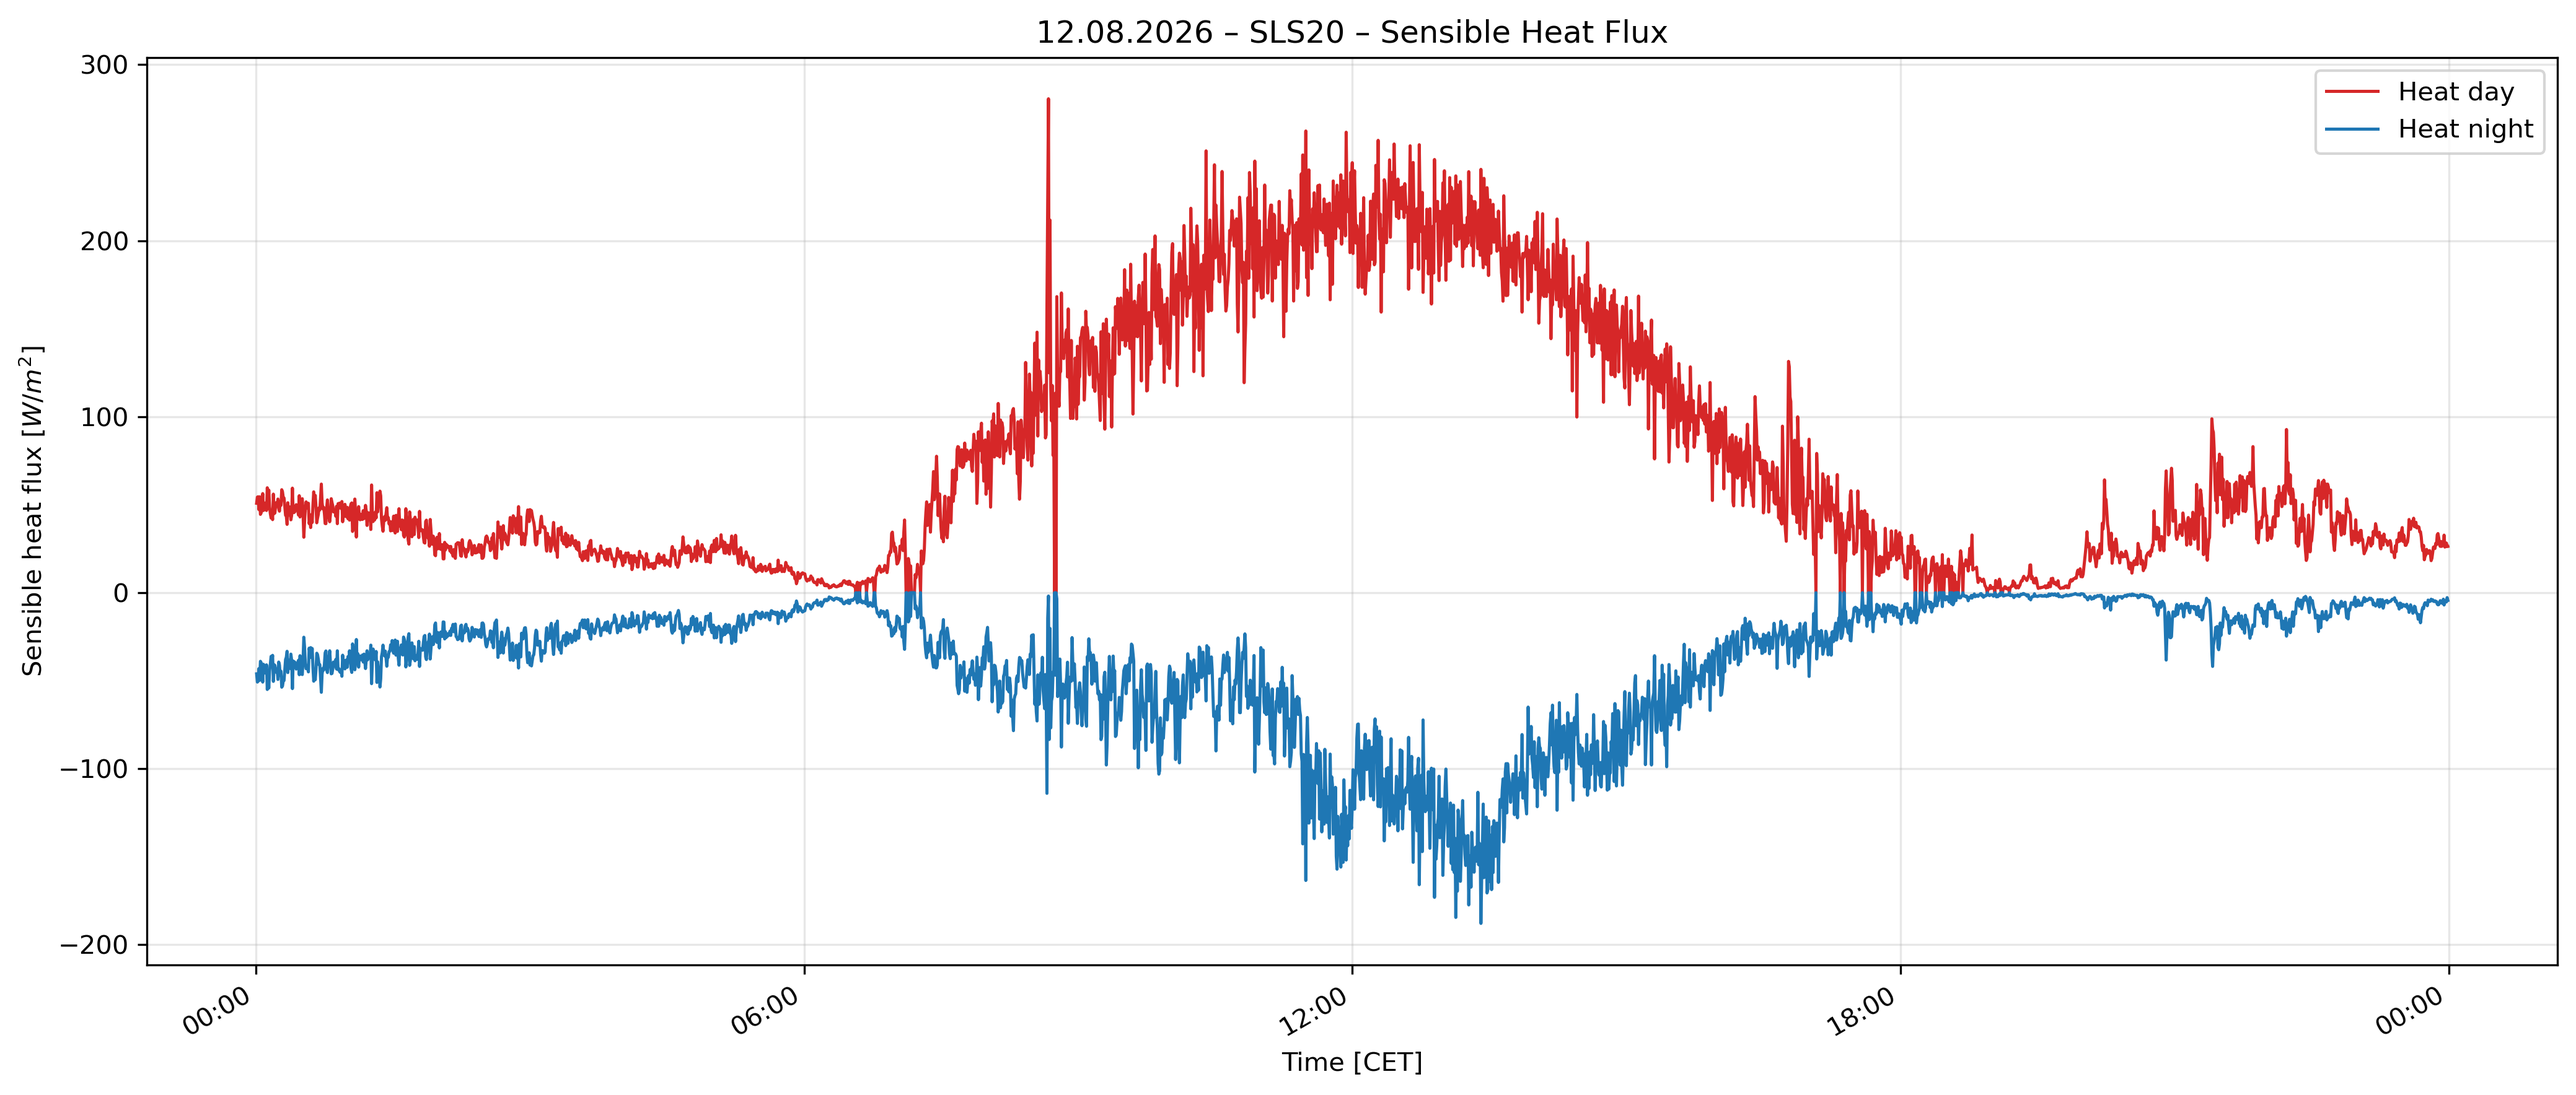
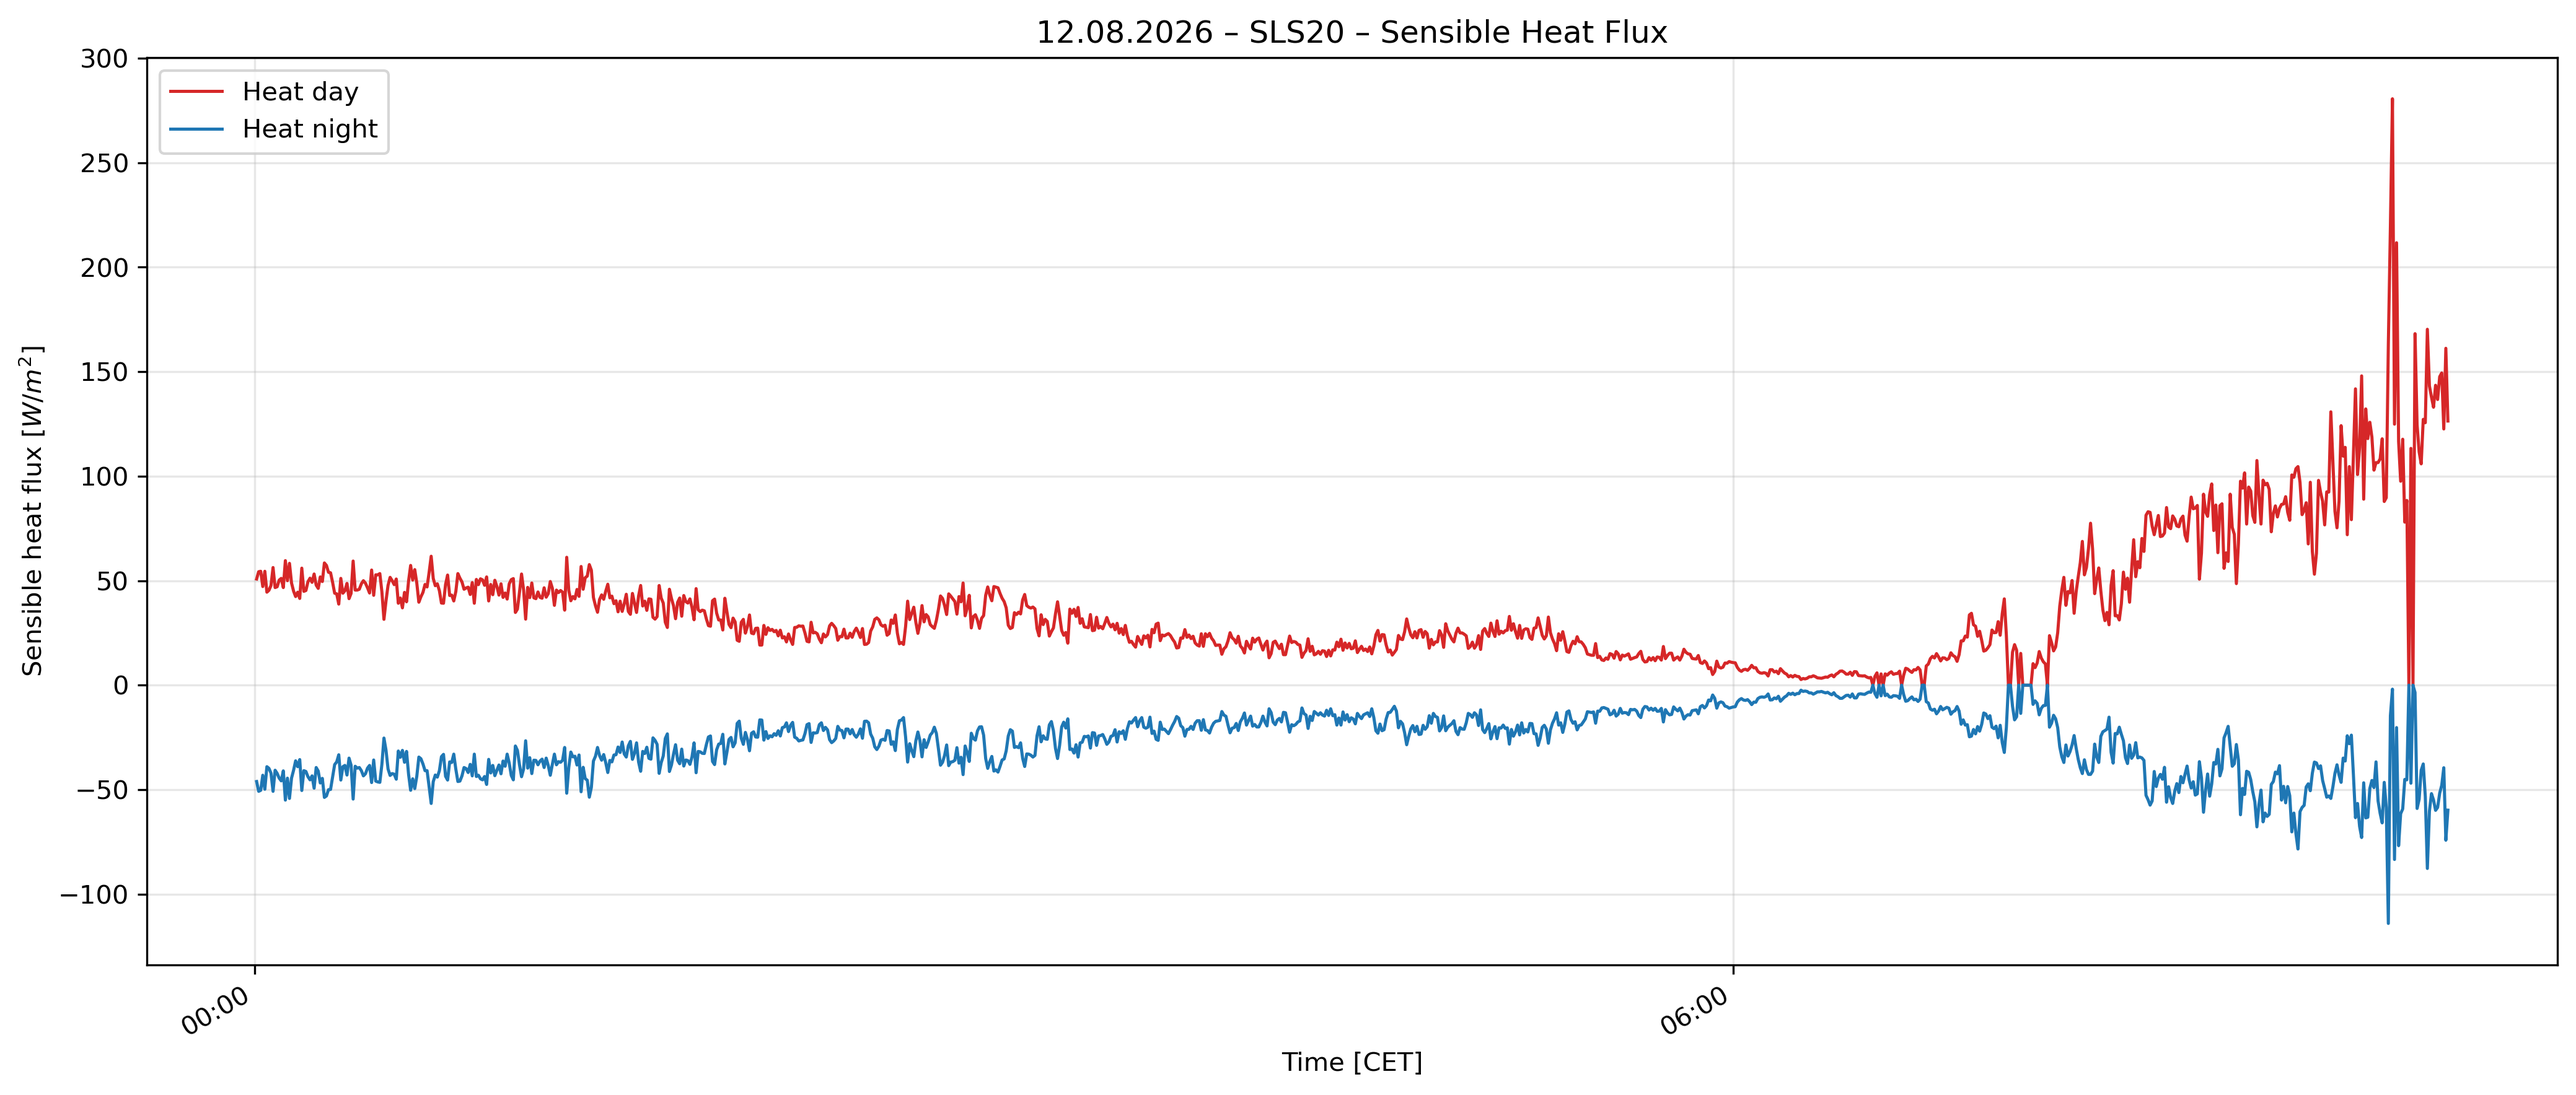
finalized the SLS readme

diff --git a/SLS-20_README.md b/SLS-20_README.md
@@ -64,8 +64,8 @@
     - day with some showers
     - retrieve more data
 
-- ## 21th Aug:
-    - stopped measuring
+- ## 20th Aug:
+    - stopped measuring in the afternoon
 
 
         
